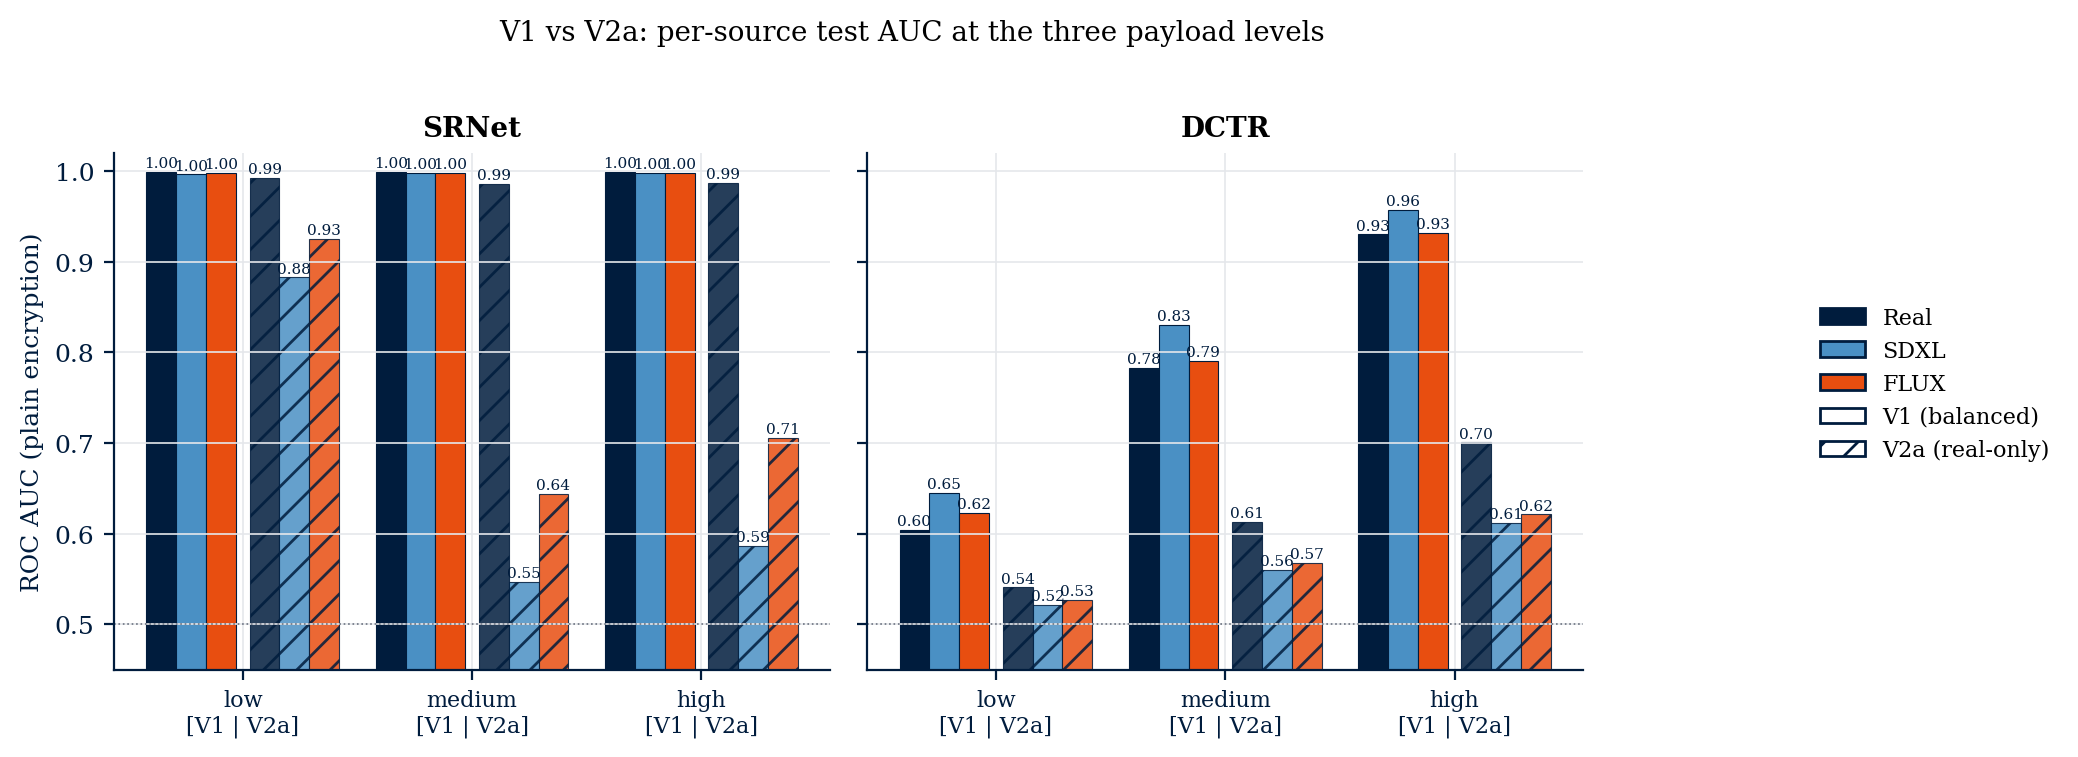
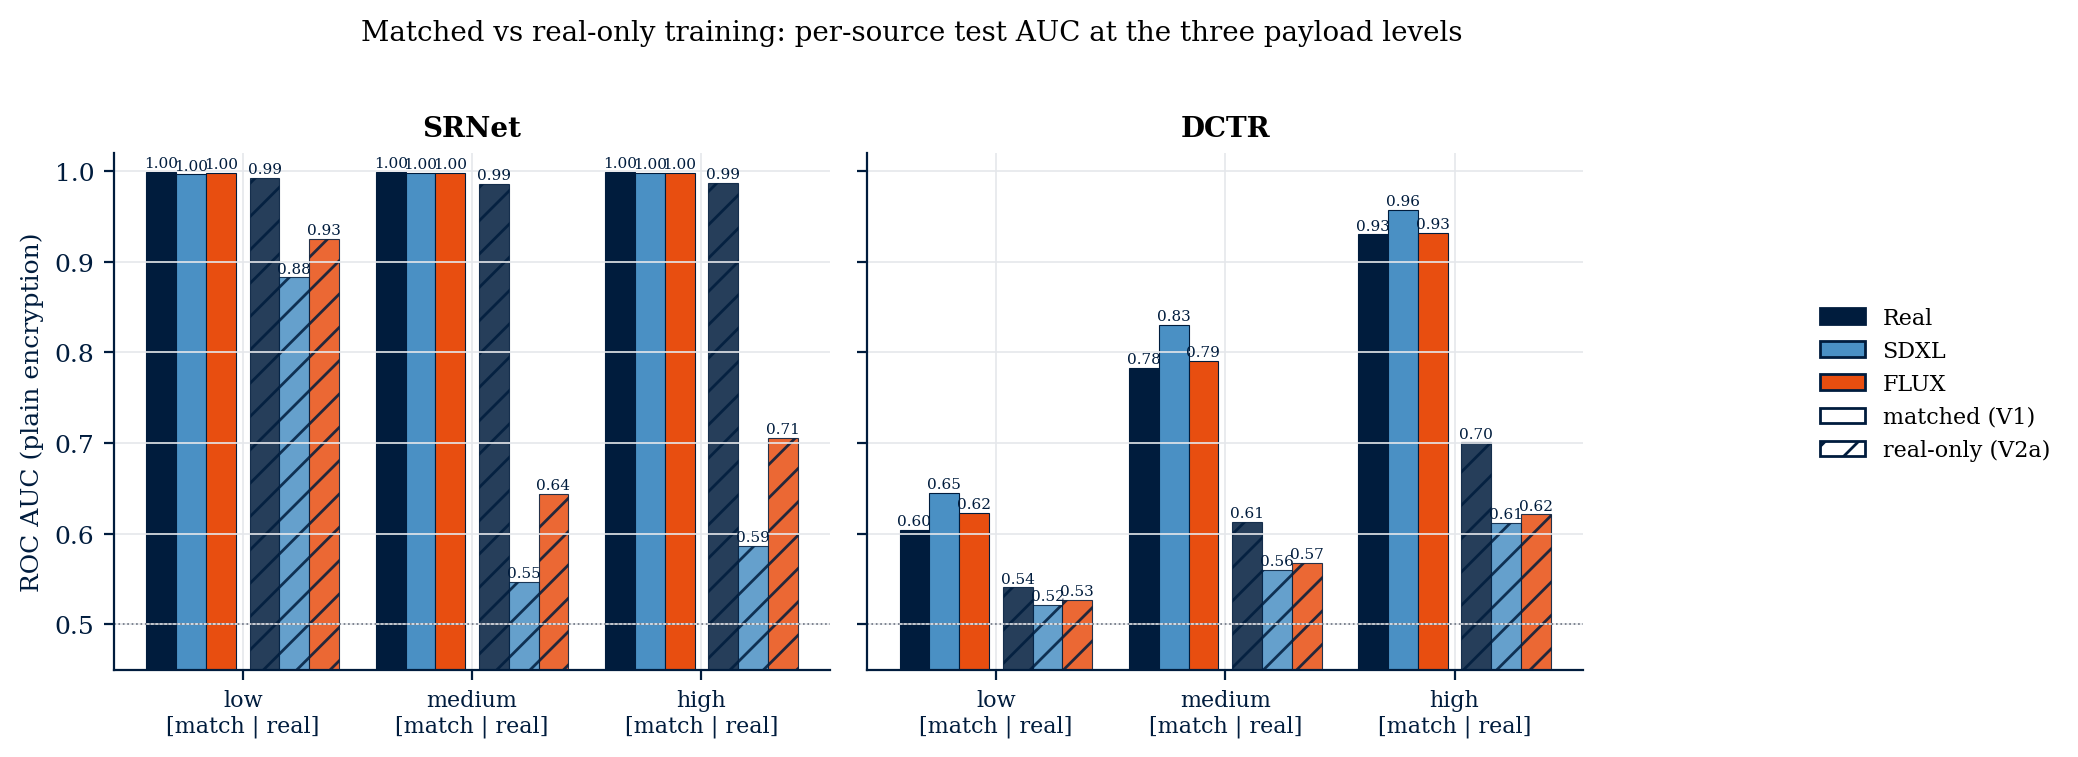
v4 §V.B: rename V1/V2a to matched/real-only training; wire in brand figures
The V1/V2a configuration labels were file-system-flavoured and opaque to
a reader: the names don't convey what the experimental contrast actually
tests.  Renamed throughout the paper prose to the more meaningful pair
"matched training" (V1: training distribution matches the test
distribution, real + SDXL + FLUX in 1:1:1) and "real-only training"
(V2a: training is real-only Flickr30k, AI carriers held out -- the
realistic deployment scenario where AI carriers post-date the training
corpus).  File paths (runs/.../learned_shadow/, models/training_v2a/)
keep the V1/V2a labels for backwards compatibility with the
reproduction artefacts; the new descriptive names always cite the
file label parenthetically on first use.

New "two complementary training configurations" framing paragraph at
the top of §V.B (after the intro paragraph, before
sec:v1-train) introduces both configurations and explicitly names the
*two questions* each one answers:

  matched: given equal training exposure to all carrier sources, do
           detectors show source-correlated performance differences on
           the test set?  -> pre-registered confirmatory cross-validation.
  real-only: if the detector is trained without seeing the AI carrier
             sources at all, does it still generalise to them?  -> in-
             paper ablation.

This makes the experimental design explicit and pre-empts the
"V1 was confounded" misreading -- both configurations are
[…]

diff --git a/scripts/figures/make_v4_paper_figures.py b/scripts/figures/make_v4_paper_figures.py
@@ -420,7 +420,8 @@ def fig_v1_vs_v2a_heatmap():
             i += 1
 
     for ax, grid, title in zip(axes, [v1_grid, v2_grid],
-                                ["V1 (1:1:1 training)", "V2a (real-only training)"]):
+                                ["Matched training (V1: 1:1:1 real/SDXL/FLUX)",
+                                 "Real-only training (V2a: AI carriers held out)"]):
         im = ax.imshow(grid, vmin=0.5, vmax=1.0, cmap="RdYlGn", aspect="auto")
         ax.set_xticks(range(len(SOURCES)))
         ax.set_xticklabels([SOURCE_LABELS[s] for s in SOURCES], fontsize=8)
@@ -435,7 +436,7 @@ def fig_v1_vs_v2a_heatmap():
                 ax.text(j, i, f"{v:.3f}", ha="center", va="center",
                         color=text_color, fontsize=7)
         ax.grid(False)
-    fig.suptitle("Per-(detector, payload, source) test AUC: V1 vs V2a (plain encryption)",
+    fig.suptitle("Per-(detector, payload, source) test AUC: matched vs real-only training (plain encryption)",
                  fontsize=10)
     cbar_ax = fig.add_axes([0.94, 0.15, 0.015, 0.7])
     cbar = fig.colorbar(im, cax=cbar_ax)
@@ -486,13 +487,106 @@ def fig_chi2_spatial_pov_box():
 
 
 # ===========================================================================
-# FIG 8 -- per-RQ verdict matrix (classical / V1 / V2a)
+# FIG 7B -- RQ2 forest plot: SDXL vs FLUX within ML (mirror of fig_rq1_forest)
+# ===========================================================================
+def fig_rq2_forest():
+    rows = load_classical()
+    aucs = per_cell_aucs(rows)
+    points = []
+    for det, det_lbl, _m, color in CLASSICAL_DETECTORS:
+        method = DET_METHOD[det]
+        for payload in PAYLOADS:
+            ml_a = aucs.get((det, method, payload, "ml_a"))
+            ml_b = aucs.get((det, method, payload, "ml_b"))
+            if ml_a is None or ml_b is None:
+                continue
+            se = 0.012
+            points.append((det, det_lbl, payload, ml_a - ml_b, se, color))
+
+    fig, ax = plt.subplots(figsize=(7.2, 6.0))
+    y = np.arange(len(points))
+    for i, (det, det_lbl, payload, delta, se, color) in enumerate(points):
+        ax.errorbar(delta, i, xerr=1.96 * se, fmt="o",
+                    color=color, ecolor=color, elinewidth=1.2, capsize=3,
+                    markersize=6, markeredgecolor=PALETTE["umdark"],
+                    markeredgewidth=0.4)
+    ax.axvline(0, color=PALETTE["umgray"], linewidth=0.8)
+    ax.axvspan(-0.025, 0.025, color=PALETTE["umgray"], alpha=0.10,
+               label="trivial band (|Δ|<0.025)")
+    for x_threshold in (-0.05, 0.05):
+        ax.axvline(x_threshold, color=PALETTE["umorange"], linestyle=":",
+                   linewidth=0.6)
+    ax.text(-0.052, -0.6,
+            r"$\delta_\mathrm{min}=\pm 0.05$ (pre-registered)",
+            ha="right", fontsize=7.5, color=PALETTE["umorange"], style="italic")
+    labels = [f"{p[1]} / {p[2]}" for p in points]
+    ax.set_yticks(y); ax.set_yticklabels(labels, fontsize=8)
+    ax.invert_yaxis()
+    ax.set_xlim(-0.10, 0.10)
+    ax.set_ylim(len(points), -1.5)
+    ax.set_xlabel(r"$\Delta_{AUC}$ = AUC(SDXL) − AUC(FLUX)   (negative = FLUX easier than SDXL)")
+    ax.set_title("RQ2 forest plot: SDXL vs FLUX within-ML, per (detector, payload), 18 strata")
+    ax.legend(loc="lower left", fontsize=8)
+    fig.tight_layout()
+    fig.savefig(OUT / "rq2_forest.png")
+    plt.close()
+    print(f"wrote {OUT / 'rq2_forest.png'}")
+
+
+# ===========================================================================
+# FIG 7C -- DCTR E_OOB ladder: training-time OOB vs test-set P_E^min
+# ===========================================================================
+def fig_dctr_eoob_ladder():
+    """Mirrors the v2a_findings/g3_dctr_eoob_ladder.png but in the v4_paper
+    directory and naming-aligned to the renamed real-only training (V2a)."""
+    import json
+    dctr_summaries = {p: json.load(open(
+        f"models/training_v2a/dctr_dct_{p}_v2a.summary.json")) for p in PAYLOADS}
+    eoob = [dctr_summaries[p]["oob_metrics"]["e_oob"] for p in PAYLOADS]
+    val_auc = [dctr_summaries[p]["val_auc"] for p in PAYLOADS]
+    test_pe_by_payload = defaultdict(list)
+    for r in csv.DictReader(open(
+        RUN_DIR / "predictions" / "pe_min_dctr_v2a.csv")):
+        test_pe_by_payload[r["payload_level"]].append(float(r["pe_min"]))
+    test_pe = [float(np.mean(test_pe_by_payload[p])) for p in PAYLOADS]
+    val_pe = [1 - v for v in val_auc]
+
+    fig, ax = plt.subplots(figsize=(6.5, 3.8))
+    x = np.arange(3); w = 0.27
+    b1 = ax.bar(x - w, eoob, w, color=PALETTE["umdark"],
+                label=r"$E_\mathrm{OOB}$ (training-time, OOB ensemble residual)",
+                edgecolor=PALETTE["umdark"], linewidth=0.4)
+    b2 = ax.bar(x, test_pe, w, color=PALETTE["umorange"],
+                label=r"Test-set $P_E^{\min}$ (real + ML carriers, OOD on ML)",
+                edgecolor=PALETTE["umdark"], linewidth=0.4)
+    b3 = ax.bar(x + w, val_pe, w, color=PALETTE["umlight"],
+                label=r"$1-\mathrm{val\_AUC}$ (held-out of training, proxy)",
+                edgecolor=PALETTE["umdark"], linewidth=0.4)
+    ax.axhline(0.5, color=PALETTE["umgray"], linestyle=":", linewidth=0.6)
+    ax.set_ylim(0, 0.55)
+    ax.set_xticks(x); ax.set_xticklabels(PAYLOADS)
+    ax.set_xlabel("payload level")
+    ax.set_ylabel("detection error (lower is better)")
+    ax.set_title(r"DCTR real-only: $E_\mathrm{OOB}$ ladders with payload; test on OOD ML carriers uniformly worse")
+    for bars, vals in [(b1, eoob), (b2, test_pe), (b3, val_pe)]:
+        for b, v in zip(bars, vals):
+            ax.text(b.get_x() + b.get_width()/2, b.get_height() + 0.01,
+                    f"{v:.3f}", ha="center", fontsize=7, color=PALETTE["umdark"])
+    ax.legend(loc="upper right", fontsize=7.5)
+    fig.tight_layout()
+    fig.savefig(OUT / "dctr_eoob_ladder.png")
+    plt.close()
+    print(f"wrote {OUT / 'dctr_eoob_ladder.png'}")
+
+
+# ===========================================================================
+# FIG 8 -- per-RQ verdict matrix (classical / matched / real-only)
 # ===========================================================================
 def fig_verdict_matrix():
     paths = {
-        "classical":   RUN_DIR / "metrics" / "rq_verdicts.json",
-        "V1 learned":  RUN_DIR / "learned_shadow" / "metrics" / "rq_verdicts.json",
-        "V2a learned": RUN_DIR / "learned_shadow_v2a" / "metrics" / "rq_verdicts.json",
+        "classical\n(6 detectors)":         RUN_DIR / "metrics" / "rq_verdicts.json",
+        "learned -- matched\n(SRNet + DCTR, V1)":  RUN_DIR / "learned_shadow" / "metrics" / "rq_verdicts.json",
+        "learned -- real-only\n(SRNet + DCTR, V2a)": RUN_DIR / "learned_shadow_v2a" / "metrics" / "rq_verdicts.json",
     }
     verdicts = {k: json.load(open(p))["verdicts"] for k, p in paths.items()}
     rqs = ["RQ1", "RQ2", "RQ3", "RQ4", "RQ5"]
@@ -567,7 +661,7 @@ def fig_v1_vs_v2a_per_source_bars():
                         color=PALETTE["umdark"], rotation=0)
         style_auc_axis(ax)
         ax.set_xticks(x)
-        ax.set_xticklabels([f"{p}\n[V1 | V2a]" for p in PAYLOADS], fontsize=8)
+        ax.set_xticklabels([f"{p}\n[match | real]" for p in PAYLOADS], fontsize=8)
         ax.set_title(det_lbl)
         if det_key == "srnet":
             ax.set_ylabel("ROC AUC (plain encryption)")
@@ -575,12 +669,15 @@ def fig_v1_vs_v2a_per_source_bars():
     handles = [mpatches.Patch(facecolor=SOURCE_COLORS[s], label=SOURCE_LABELS[s],
                               edgecolor=PALETTE["umdark"]) for s in SOURCES]
     handles += [
-        mpatches.Patch(facecolor="white", edgecolor=PALETTE["umdark"], label="V1 (balanced)"),
-        mpatches.Patch(facecolor="white", edgecolor=PALETTE["umdark"], hatch="//", label="V2a (real-only)"),
+        mpatches.Patch(facecolor="white", edgecolor=PALETTE["umdark"],
+                       label="matched (V1)"),
+        mpatches.Patch(facecolor="white", edgecolor=PALETTE["umdark"], hatch="//",
+                       label="real-only (V2a)"),
     ]
     fig.legend(handles=handles, loc="center right", bbox_to_anchor=(1.13, 0.5),
                fontsize=8, ncol=1)
-    fig.suptitle(r"V1 vs V2a: per-source test AUC at the three payload levels", fontsize=10)
+    fig.suptitle(r"Matched vs real-only training: per-source test AUC at the three payload levels",
+                 fontsize=10)
     fig.tight_layout(rect=[0, 0, 0.88, 0.96])
     fig.savefig(OUT / "v1_vs_v2a_per_source_bars.png")
     plt.close()
@@ -645,10 +742,12 @@ if __name__ == "__main__":
     print("Building v4 paper figures in brand style ...")
     fig_headline_rq1()
     fig_rq1_forest()
+    fig_rq2_forest()
     fig_rq3_payload_gap()
     fig_roc_at_medium()
     fig_tiled_vs_baselines_line()
     fig_v1_vs_v2a_heatmap()
+    fig_dctr_eoob_ladder()
     fig_chi2_spatial_pov_box()
     fig_verdict_matrix()
     fig_v1_vs_v2a_per_source_bars()